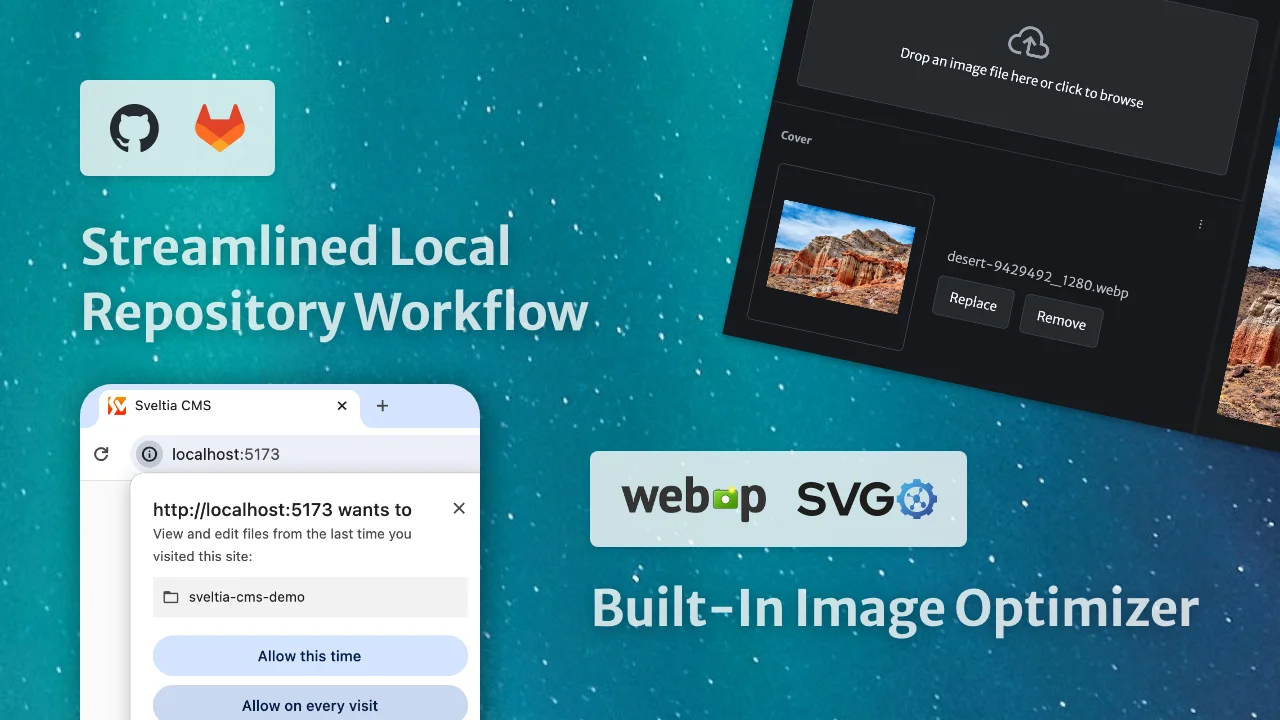
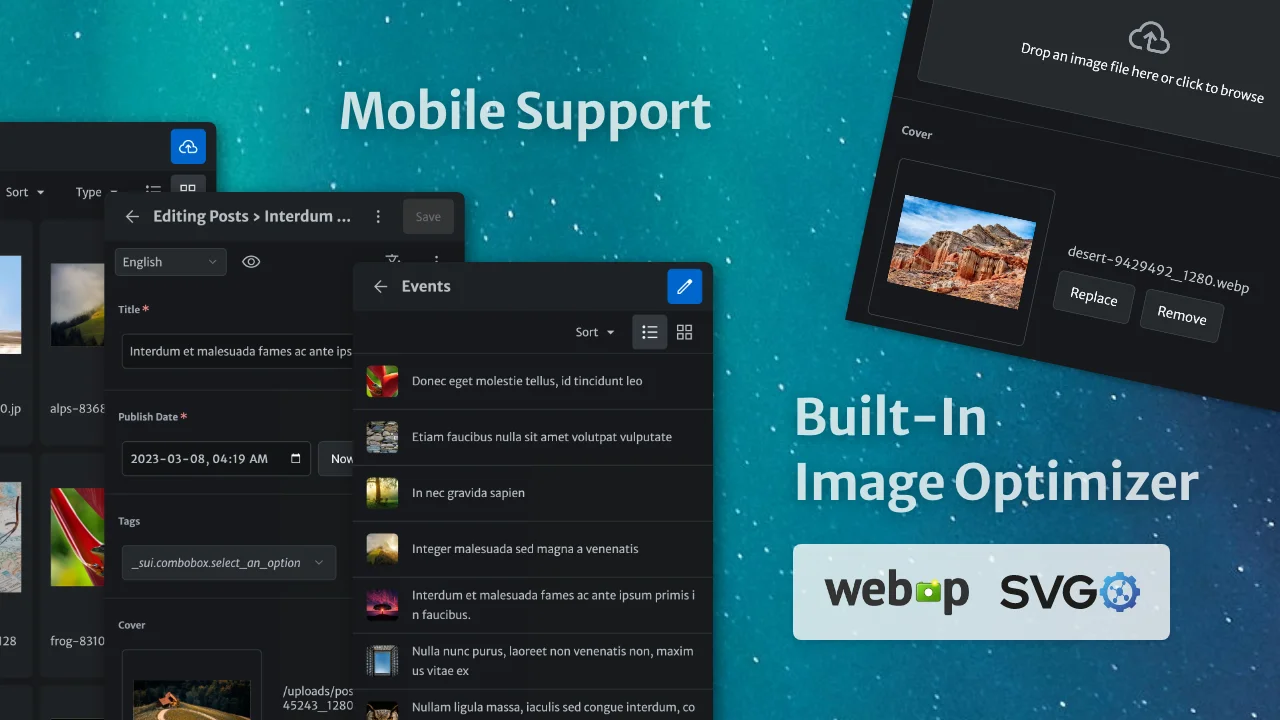
[skip ci] Update README.md

diff --git a/README.md b/README.md
@@ -12,9 +12,9 @@ The free, open source alternative to Netlify/Decap CMS is now in public beta, tu
 
 ![Screenshot: Full-Fledged Asset Library; First-Class I18n Support with DeepL](https://raw.githubusercontent.com/sveltia/sveltia-cms/main/docs/screenshot-4.webp?20250405)<br>
 
-![Screenshot: GitHub, GitLab; Streamlined Local Repository Workflow; WebP, SVGO; Built-In Image Optimizer](https://raw.githubusercontent.com/sveltia/sveltia-cms/main/docs/screenshot-5.webp?20250405)<br>
+![Screenshot: Mobile Support; WebP, SVGO; Built-In Image Optimizer](https://raw.githubusercontent.com/sveltia/sveltia-cms/main/docs/screenshot-5.webp?20250406)<br>
 
-![Single Line Migration from Netlify/Decap CMS (depending on your current setup); Sveltia CMS](https://raw.githubusercontent.com/sveltia/sveltia-cms/main/docs/screenshot-6.webp?20250405)<br>
+![GitHub, GitLab; Streamlined Local & Remote Workflow; Single Line Migration from Netlify/Decap CMS (depending on your current setup); Sveltia CMS](https://raw.githubusercontent.com/sveltia/sveltia-cms/main/docs/screenshot-6.webp?20250406)<br>
 
 ## Table of contents
 
@@ -125,7 +125,7 @@ While we fix reported bugs as quickly as possible, usually within 24 hours, our 
 - Ensuring substantial [compatibility with Netlify/Decap CMS](#compatibility)
 - Providing partial [compatibility with Static CMS](#compatibility-with-static-cms)
 - Tackling as many [Netlify/Decap CMS issues](https://github.com/decaporg/decap-cms/issues) as possible
-  - So far, 190+ issues, or 380+ if including duplicates, have been effectively solved in Sveltia CMS
+  - So far, 190+ issues, or 390+ if including duplicates, have been effectively solved in Sveltia CMS
   - Target:
     - 200 issues, or 400 if including duplicates, by GA (almost there)
     - 350 issues, or 600 if including duplicates, in the future
@@ -150,7 +150,7 @@ We hope Netlify/Decap CMS users will be pleased and surprised by the numerous im
 - Frequent releases deliver new features and enhancements to users faster. Most of our minor [releases](https://github.com/sveltia/sveltia-cms/releases) address one or more Netlify/Decap CMS issues, giving you even more reasons to switch from the legacy predecessor.
 - Offers a modern, intuitive user interface that utilizes the full viewport,[^178] inspired in part by the Netlify CMS v3 prototype.[^1]
 - Provides immersive dark mode.[^2] The UI theme follows the user’s system preference by default and can be changed in the application settings.
-- Comes with touch device support, such as larger buttons for easier tapping. While the UI is not yet optimized for small screens, it should work well with large tablets like iPad Pro or Pixel Tablet. Mobile support and other optimizations such as swipe navigation are planned after the 1.0 release.
+- Comes with decent mobile support.[^18] Expect some glitches — we are still working to fully optimize the app for small screens and touch devices.
 - Made with [Svelte](https://svelte.dev/), not React, means we can spend more time on UX rather than tedious state management. It also allows us to avoid common fatal React application crashes.[^113][^129] Best of all, Svelte offers great performance.
 - We build [our own UI component library](https://github.com/sveltia/sveltia-ui), including custom dialogs,[^196] to ensure optimal usability without compromising accessibility.
 - The in-app Help menu provides all links to useful resources, including release notes, feedback and support.
@@ -1252,7 +1252,7 @@ See [Contributing to Sveltia CMS](https://github.com/sveltia/sveltia-cms/blob/ma
 ### After the 1.0 release
 
 - Implementing the [remaining Netlify/Decap CMS features](#current-limitations)
-- Tackling even more Netlify/Decap CMS issues, including MDX support,[^122] manual entry sorting,[^125] mobile optimization,[^18] config editor[^10] and other [top-voted features](https://github.com/decaporg/decap-cms/issues?q=is%3Aissue+is%3Aopen+sort%3Areactions-%2B1-desc)
+- Tackling even more Netlify/Decap CMS issues, including MDX support,[^122] manual entry sorting,[^125] config editor[^10] and other [top-voted features](https://github.com/decaporg/decap-cms/issues?q=is%3Aissue+is%3Aopen+sort%3Areactions-%2B1-desc)
 - Exploring features that require server-side implementation, including user management (Netlify Identity alternative), roles,[^23] commits without a GitHub or GitLab account (Git Gateway alternative), post locking (like [WordPress](https://codex.wordpress.org/Post_Locking))[^166] and scheduled posts[^167]
 - More integration options: stock photos, stock videos, cloud storage providers, translation services, maps, analytics tools, etc.
 - AI integrations for image generation and content writing
@@ -1318,7 +1318,7 @@ This software is provided “as is” without any express or implied warranty. W
 
 [^17]: Netlify/Decap CMS [#1333](https://github.com/decaporg/decap-cms/issues/1333), [#4216](https://github.com/decaporg/decap-cms/issues/4216)
 
-[^18]: Netlify/Decap CMS [#441](https://github.com/decaporg/decap-cms/issues/441)
+[^18]: Netlify/Decap CMS [#441](https://github.com/decaporg/decap-cms/issues/441), [#1277](https://github.com/decaporg/decap-cms/issues/1277), [#1339](https://github.com/decaporg/decap-cms/issues/1339), [#2500](https://github.com/decaporg/decap-cms/issues/2500), [#2833](https://github.com/decaporg/decap-cms/issues/2833), [#2984](https://github.com/decaporg/decap-cms/issues/2984), [#3852](https://github.com/decaporg/decap-cms/issues/3852), [#7241](https://github.com/decaporg/decap-cms/issues/7241)
 
 [^19]: Netlify/Decap CMS [#5910](https://github.com/decaporg/decap-cms/issues/5910)
 
